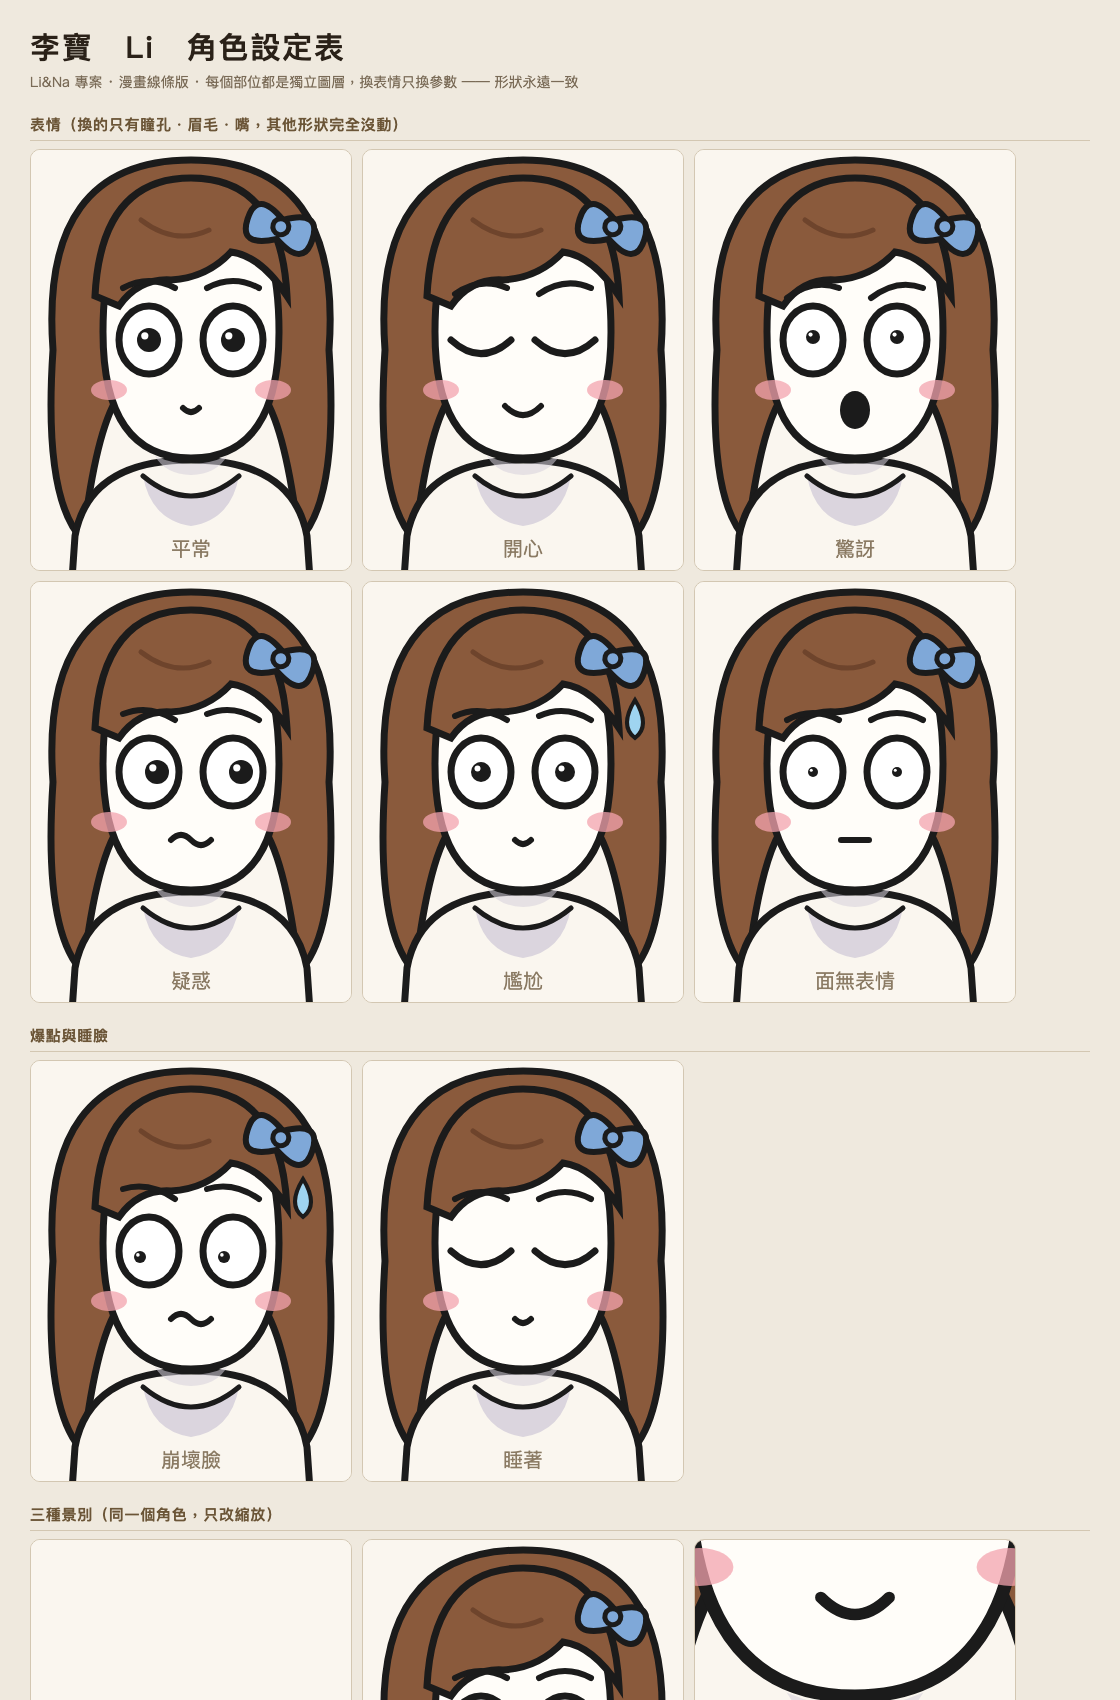
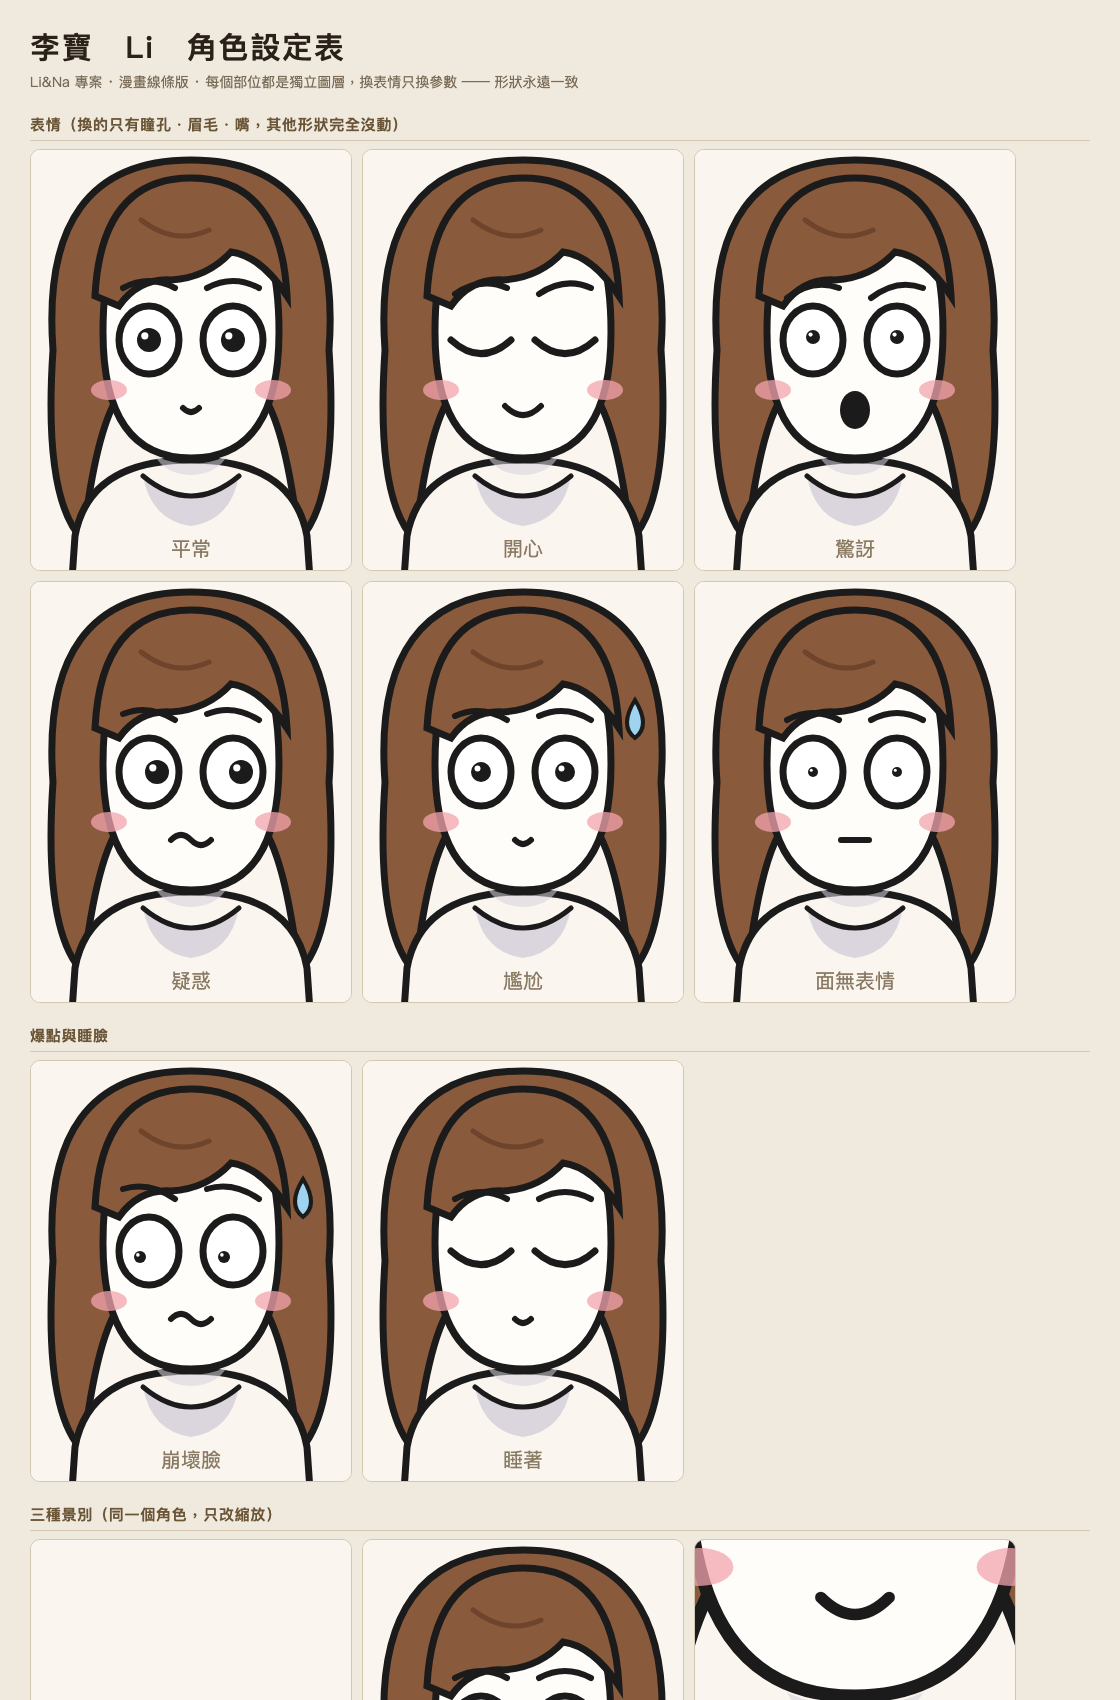
photonb: update notebook (35 notes)

diff --git a/public/photonb/li-and-na.html b/public/photonb/li-and-na.html
@@ -154,7 +154,17 @@ No background, no text labels, no shading beyond the single flat shadow tone.</p
   <h3>南湳 ② 扁平向量Q版　—— 依你給的貼圖範例，毛色換成南湳的</h3>
   <div class="card"><img src="prompt-assets/lina-card-na_chibi.png" alt="南湳 Q版 角色設定表" style="width:100%;border-radius:10px;display:block"></div>
 
-  <h3>向量版（量產用，非 AI）</h3>
+  <h3>零件表 —— A 方案的本體</h3>
+  <p class="note">你要的「眼耳口鼻＋臉型角度」拆開來就是這張。
+    <b>影片每一格不是重畫的，是從這些零件組出來的</b> —— 所以 30 格、300 格都一模一樣。</p>
+  <div class="card"><img src="prompt-assets/lina-parts.png" alt="李寶 零件表" style="width:100%;border-radius:10px;display:block"></div>
+  <div class="callout">
+    🧩 <b>怎麼運作</b>：臉型與髮型是不動的骨架；換表情只換<b>眼睛（6）＋眉毛（3）＋嘴（5）</b>三個參數。
+    光這三樣就能組出 <b>6×3×5 ＝ 90 種</b>表情，再加腮紅／汗滴等附加效果。<br>
+    髮型兩種（放下／綁馬尾）也是獨立零件，隨時可換。
+  </div>
+
+  <h3>向量版組合結果（量產用，非 AI）</h3>
   <p class="note">工具 <code>tools/lina_char.py</code>。每一格都是同一組形狀，<b>30 格永遠一致、不用再付錢</b>。
     定裝定案後我會照上面 AI 版的造型把參數調過去。</p>
   <div class="card"><img src="prompt-assets/lina-li-sheet.png" alt="李寶 向量版" style="width:100%;border-radius:10px;display:block"></div>
